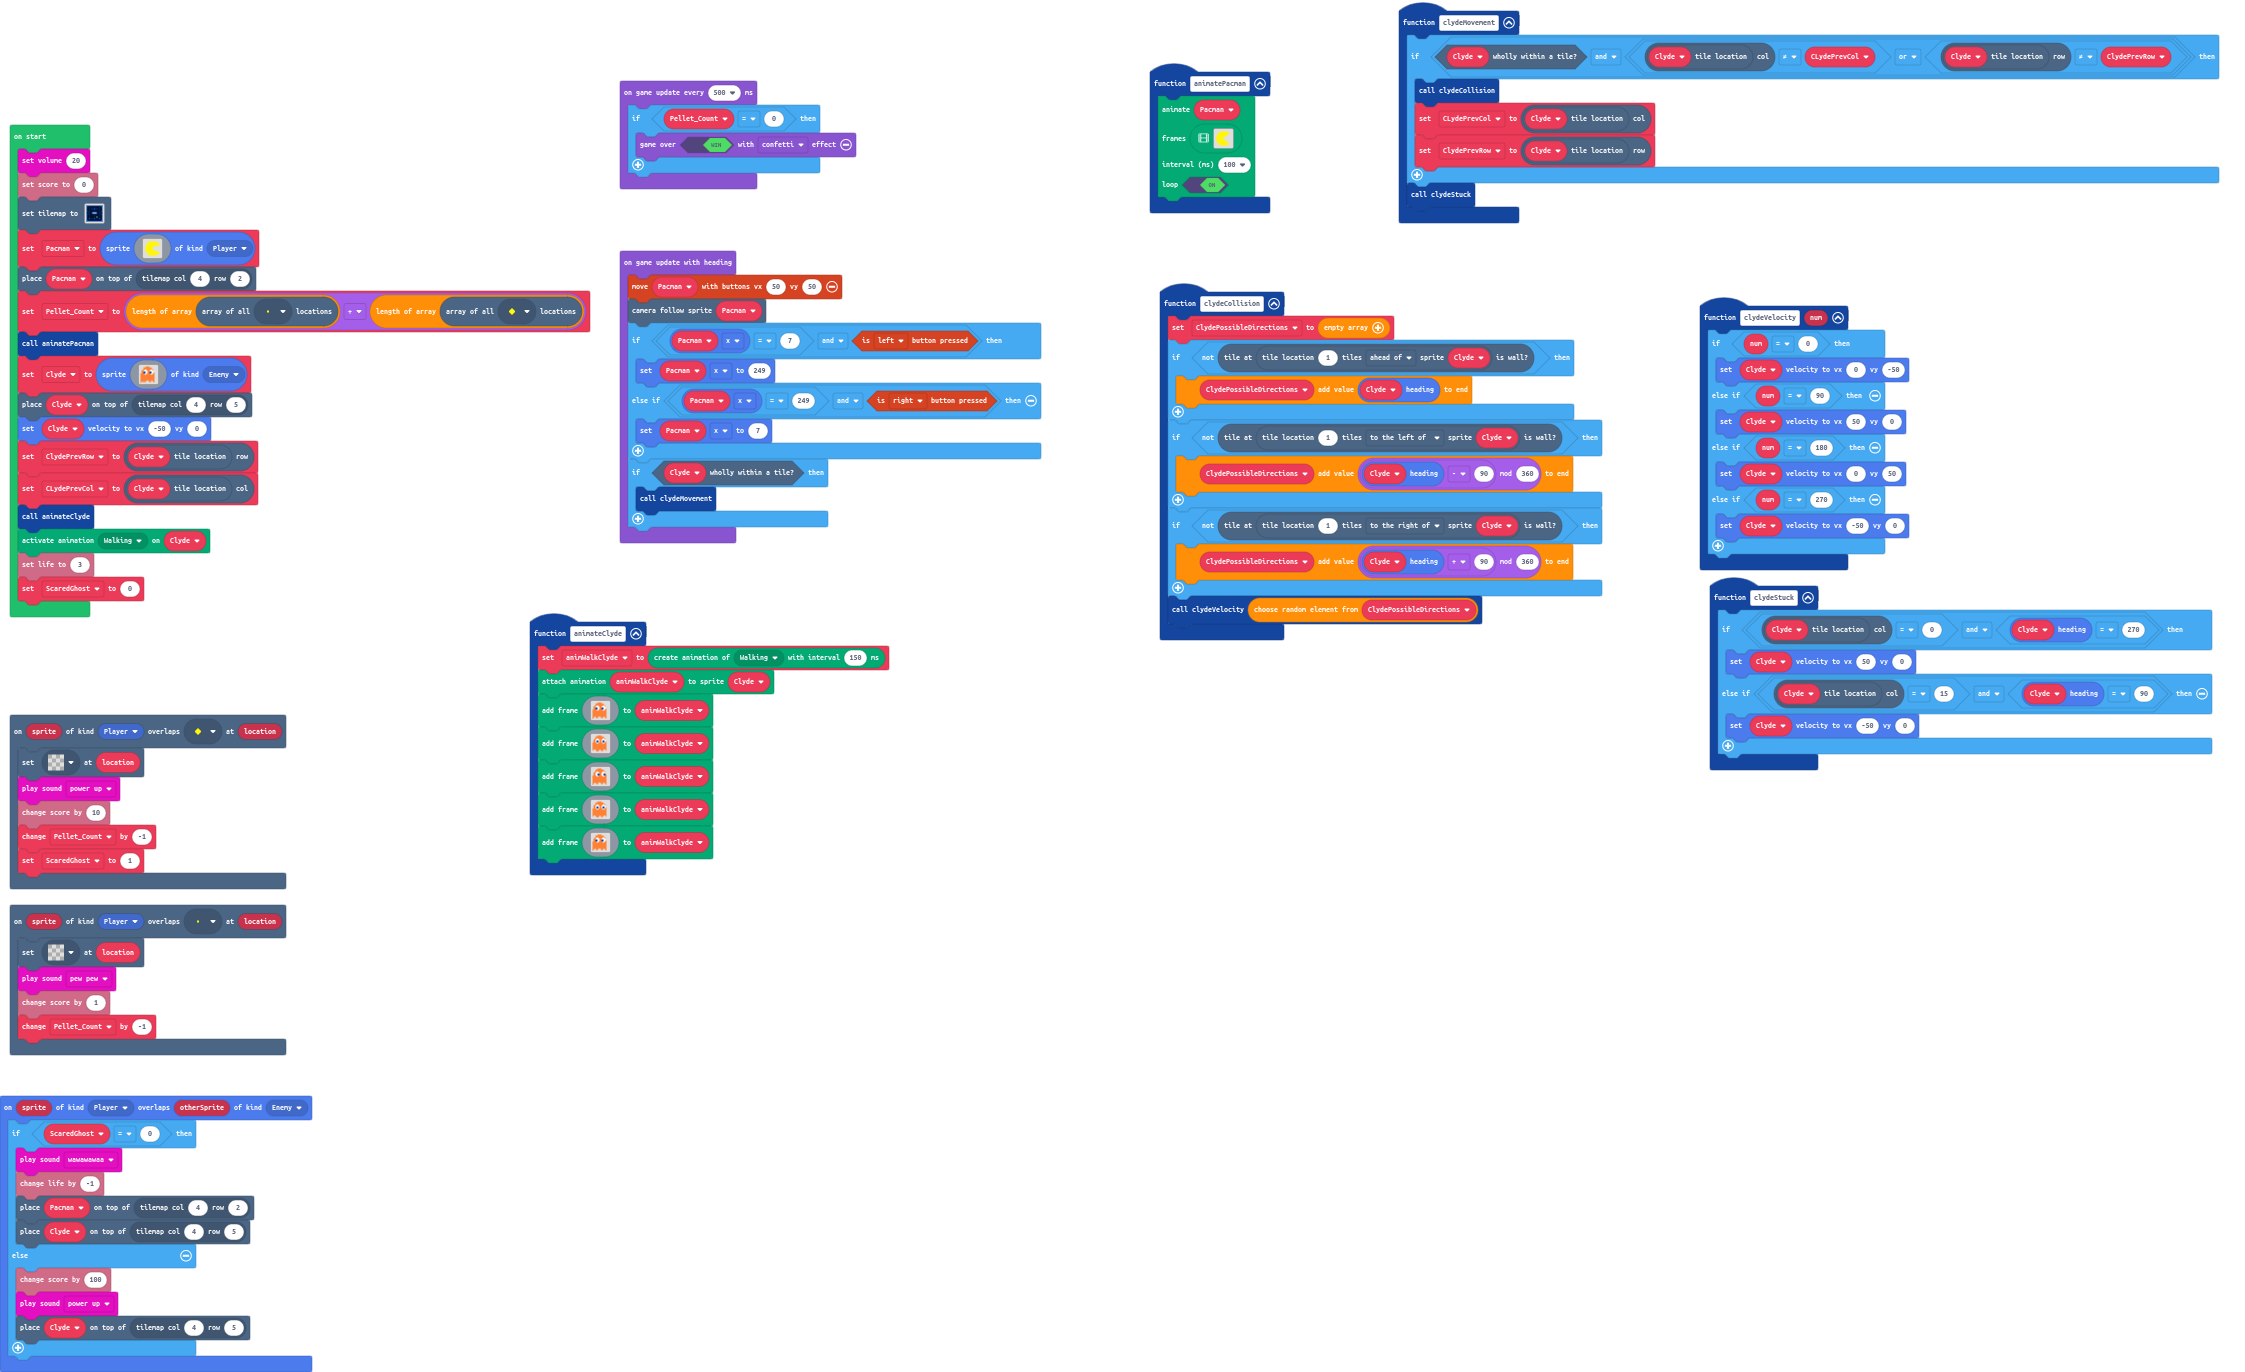
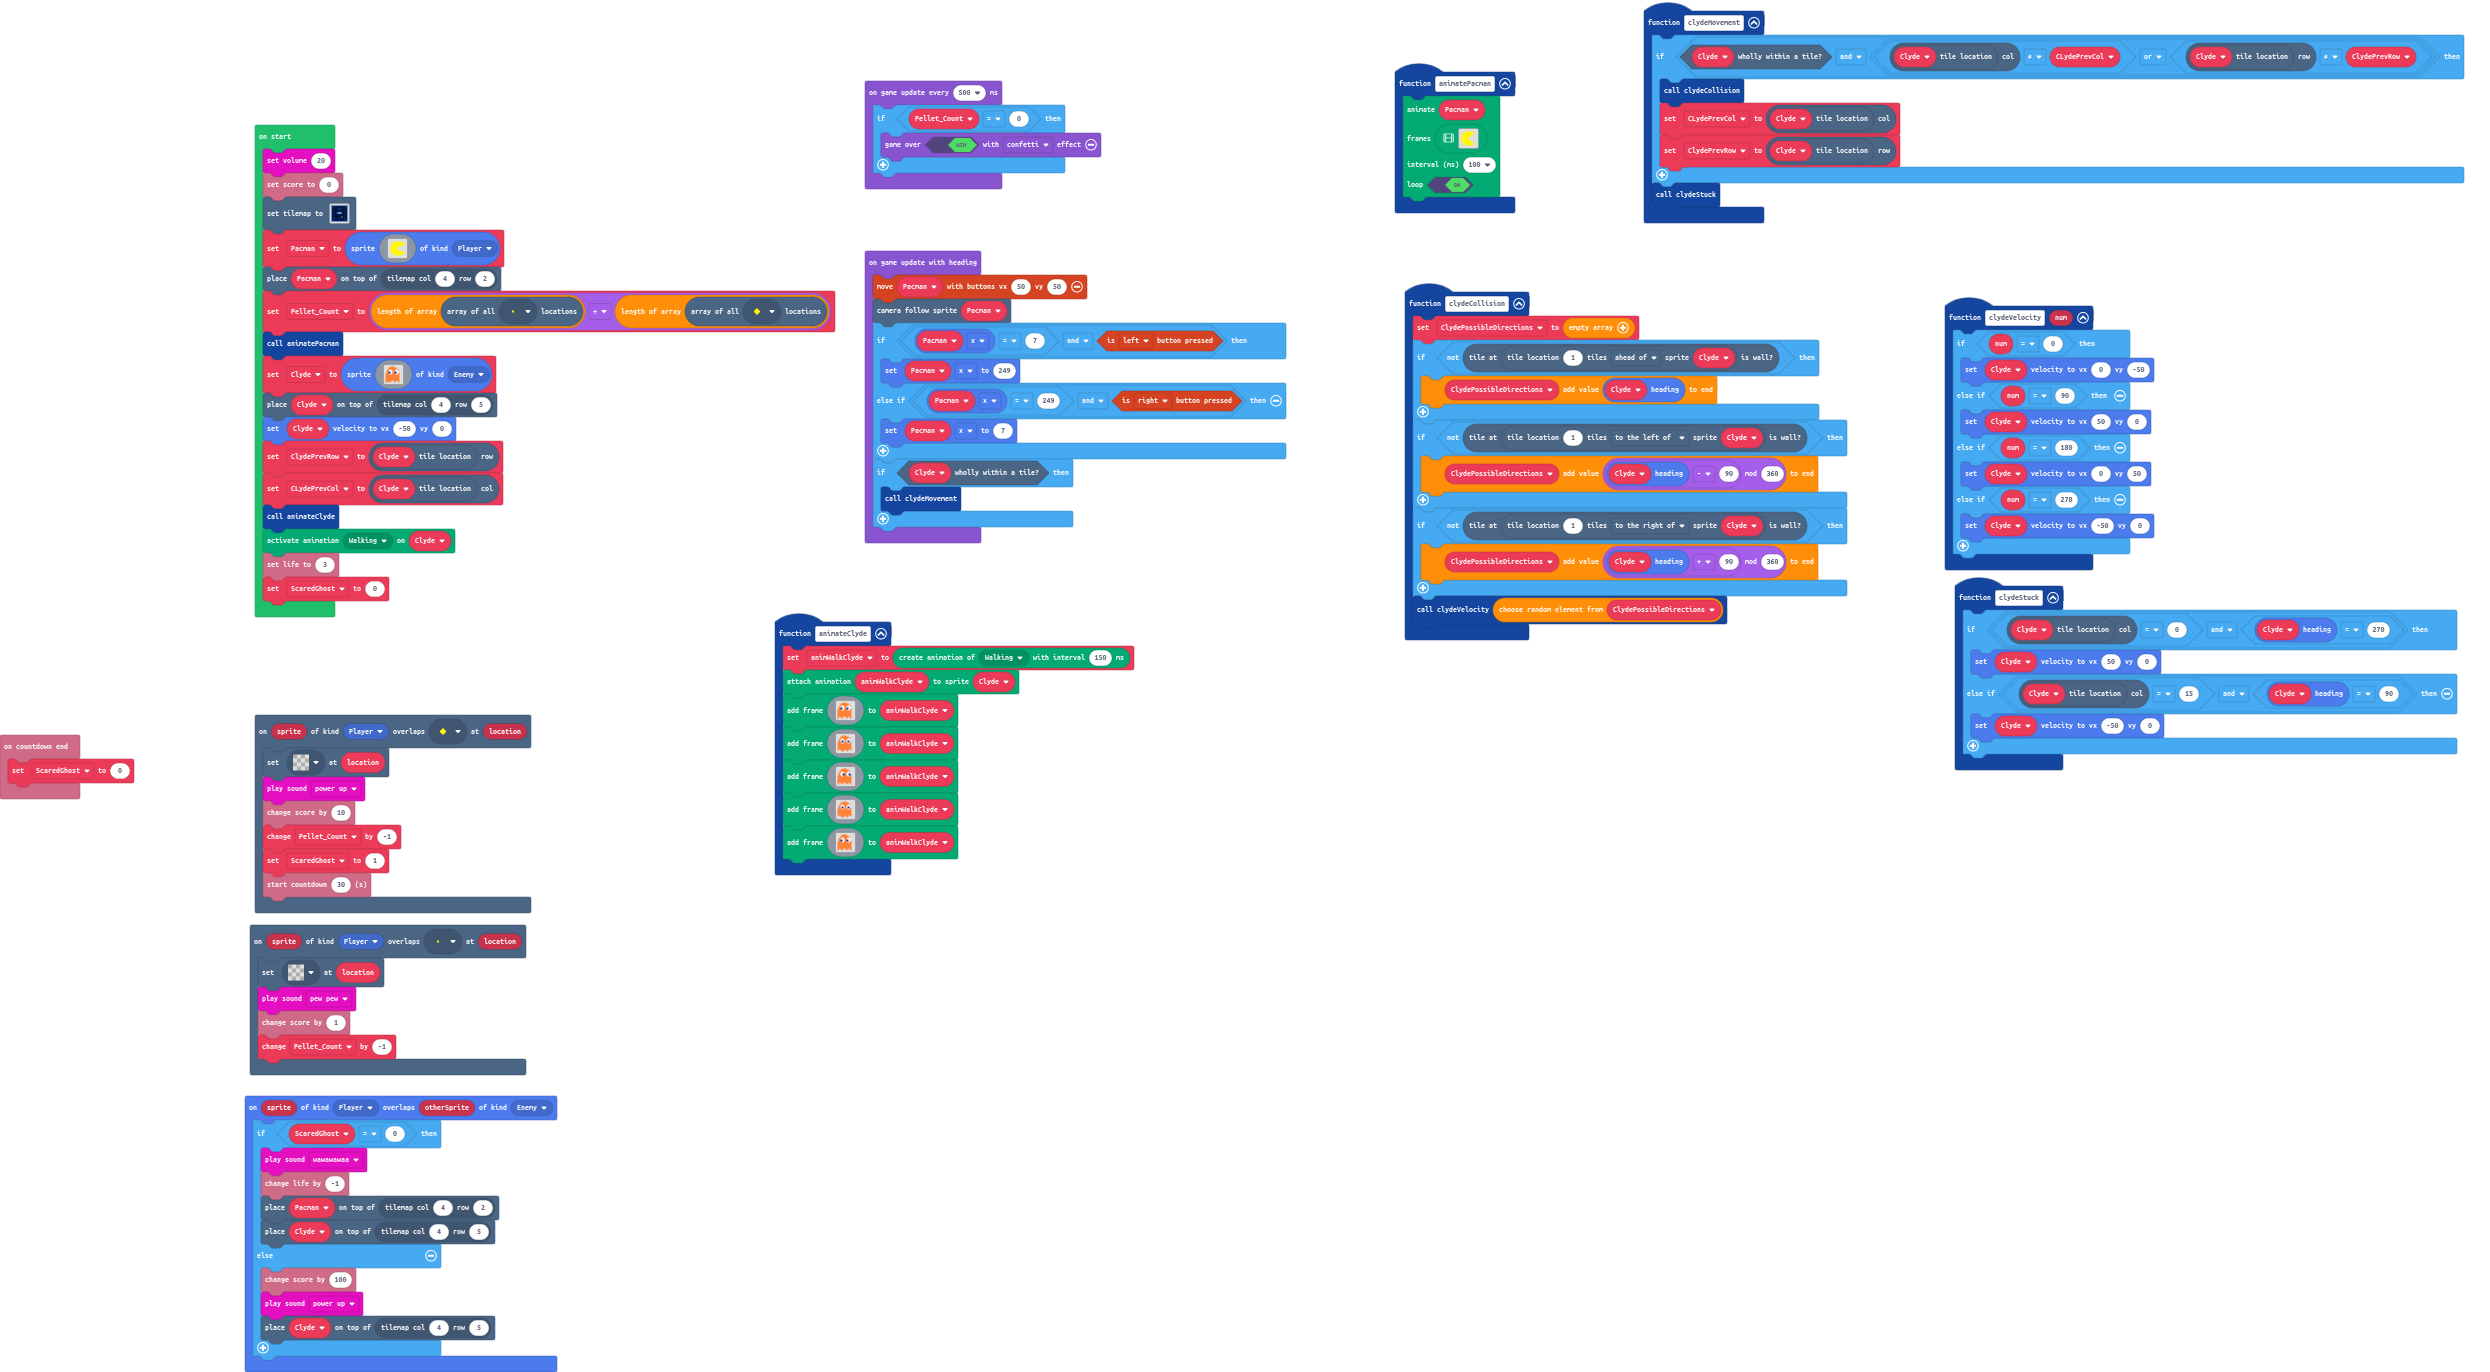
ScaredGhost mode only lasts for 30s.

diff --git a/main.ts b/main.ts
@@ -311,6 +311,9 @@ function animateClyde () {
 4 . . . 4 . . . . 4 . . . 4 . . 
 `)
 }
+info.onCountdownEnd(function () {
+    ScaredGhost = 0
+})
 function clydeMovement () {
     if (scene.spriteContainedWithinTile(Clyde) && (scene.getTileColCoordinate(scene.getTileLocationOfSprite(Clyde)) != CLydePrevCol || scene.getTileRowCoordinate(scene.getTileLocationOfSprite(Clyde)) != ClydePrevRow)) {
         clydeCollision()
@@ -331,6 +334,7 @@ scene.onOverlapTile(SpriteKind.Player, myTiles.tile3, function (sprite, location
     info.changeScoreBy(10)
     Pellet_Count += -1
     ScaredGhost = 1
+    info.startCountdown(30)
 })
 sprites.onOverlap(SpriteKind.Player, SpriteKind.Enemy, function (sprite, otherSprite) {
     if (ScaredGhost == 0) {
